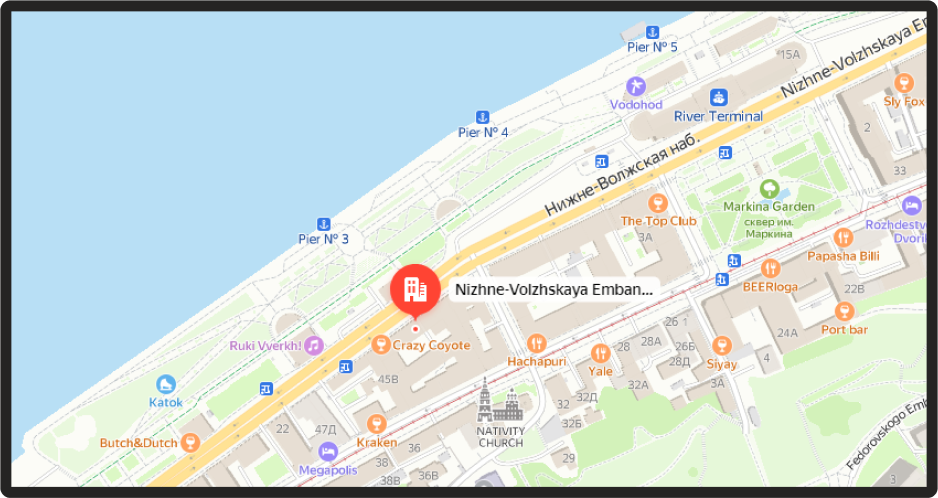
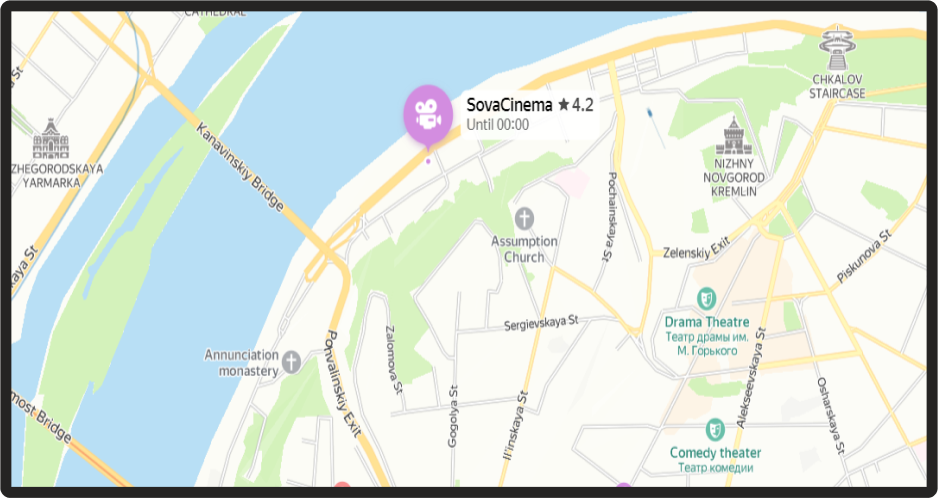
bug fixes and improve interface

diff --git a/src/style/sectionsStyle/section8.scss b/src/style/sectionsStyle/section8.scss
@@ -26,7 +26,18 @@ $white: rgba(255,255,255,0.15);
         
         h1{
             text-align: center;
-            margin: 2rem auto 3rem;
+            margin: 2rem auto 2rem;
+            max-width: fit-content;
+            text-transform: capitalize;
+            transition: all 500ms ease;
+            font-weight: 900;
+            color: #fff;
+            opacity: 0.7;
+            text-shadow: 2px 2px 4px rgba(0,0,0,0.2);
+        }
+        h3{
+            text-align: center;
+            margin: 0rem auto 3rem;
             max-width: fit-content;
             text-transform: capitalize;
             transition: all 500ms ease;
@@ -151,6 +162,72 @@ $white: rgba(255,255,255,0.15);
              max-width: 80%;
             }
 
+            .button{
+              padding: 0.8rem 1.8rem;
+              border-radius: 10px;
+              font-weight: bold;
+              cursor: pointer;
+              box-sizing: border-box;
+              background-color: black;
+              color: white;
+              margin: 30px auto;
+              display: block;
+              text-align: center;
+              border: none;
+              text-decoration: none;
+              text-transform: uppercase;
+              width: 12rem;
+              transition: all 0.3s;
+              box-shadow: 0 0 4px rgba(0, 0, 0, 0.5);
+              &:hover{
+                background-color: white;
+                    color: black ; 
+                    border: 0.1px solid white;
+                    transition: 0.5s linear ;
+              }
+     
+          }
+              .btn{
+                transform-style: preserve-3d;
+                padding: 0.8rem 1.8rem;
+
+                &:before{
+                  content: "отправил";
+                  position: absolute;
+                  left: 0;
+                  right: 0;
+                  transform-origin: 0% 100%;
+                  transform: rotateX(90deg);
+                  color: white;
+                  background-color: black ;                   
+                  transition: all 10s;
+                  top: -100%;
+                  box-shadow: 0 0 4px rgba(0, 0, 0, 0.5);
+                  padding: 0.8rem 1.8rem;
+                  border-radius: 10px;
+                  font-weight: bold;
+                  cursor: pointer;
+                  box-sizing: border-box;
+                  border: 0.1px white solid transparent;
+
+                }
+                
+                &:focus{
+                  padding: 0.8rem 1.8rem;
+                  border: none;
+                  border-radius: 10px;
+                  font-weight: bold;
+                  cursor: pointer;
+                  border: 0.1px solid transparent;
+                  box-sizing: border-box;
+                  transform-origin: 50% 100%;
+                  transform: rotateX(-90deg) translateY(100%);
+                  color: #000;
+                  border: 0.1px white solid transparent;
+
+                }
+                  
+              }  
             button{
                 padding: 0.8rem 1.8rem;
                 border: none;

diff --git a/src/components/sections/section8.jsx b/src/components/sections/section8.jsx
@@ -21,7 +21,7 @@ const navigate = useNavigate();
 
   const handleSubmit = (e) => {
     e.preventDefault();
-
+    
     const templateParams = {
       name,
       phone,
@@ -39,6 +39,10 @@ const navigate = useNavigate();
       }, (err) => {
         console.log('FAILED...', err);
       });
+
+      setTimeout(() => {
+        navigate("/");
+      }, 1000);
   };
 
   const handleChoiceChange = (e, selectedValue) => {
@@ -57,6 +61,7 @@ const navigate = useNavigate();
     <div className="section8">
       <form onSubmit={handleSubmit}>
         <h1>забронируйте фильм в SovaCinema</h1>
+        <h3>действует предварительная запись минимум за сутки</h3>
 
         <div className="userData">
           <input
@@ -112,7 +117,7 @@ const navigate = useNavigate();
             name="message"
             onChange={(e) => setMessage(e.target.value)}
           />
-          <label htmlFor="message" className="form__label">Сообщение</label>
+          <label htmlFor="message" className="form__label">Комментарий</label>
         </div>
 
         <hr />
@@ -140,7 +145,7 @@ const navigate = useNavigate();
               <p className="choiceDetails">{choiceDetails}</p>
             </div>
           )}
-          <button type="submit">Жду звонка!</button>
+          <button  className="send button btn" type="submit">Забронировать</button>
         </div>
       </form>
     </div>

diff --git a/src/components/sections/section6.jsx b/src/components/sections/section6.jsx
@@ -38,8 +38,8 @@ const ContactUs = () => {
           <p>Мы всегда готовы ответить на любые интересующие Вас вопросы, быстро и полно. Связаться с нами можно любым удобным способом:</p>
           <input type="text" name="name" placeholder="ВАШЕ ИМЯ" required />
           <input id="phone" type="tel" name="user_phone" placeholder="ВАШ ТЕЛЕФОН" required />
-          <textarea id="message" type="text" name="message" placeholder="СООБЩЕНИЕ" required></textarea>
-          <button type='submit' value={"send"}>ОТПРАВИТЬ СООБЩЕНИЕ</button>
+          <textarea id="message" type="text" name="message" placeholder="КОММЕНТАРИЙ" required></textarea>
+          <button type='submit' value={"send"}>ОТПРАВИТЬ </button>
         </div>
       </form>
       <img src={Img} alt="contact SovaCinema" />

diff --git a/src/components/sections/section7.jsx b/src/components/sections/section7.jsx
@@ -12,7 +12,7 @@ import map from '../../style/imgs/map.png'
 function Section7() {
   return (
 <section className='section7'>
-   <a href="https://yandex.ru/maps/47/nizhny-novgorod/house/nizhne_volzhskaya_naberezhnaya_19/YEoYfw9jQUMGQFtsfX9zdnVgZA==/?ll=43.983861%2C56.327930&z=16.59"> <img href="" src={map} alt="sova location" /></a>
+   <a href="https://yandex.ru/maps/-/CDRONWju"> <img href="" src={map} alt="sova location" /></a>
       <h3>МЫ НА СВЯЗИ!</h3>
       <p>
       Россия,Нижний <br/> НовгородНижневолжская наб., дом 19

diff --git a/src/components/nav.jsx b/src/components/nav.jsx
@@ -22,9 +22,7 @@ function Nav() {
       <div className="logo">
        <a href="/"> <img src={logo} alt="sova logo" /></a>
       </div>
-      <a className="location">
-        <MdLocationPin /> Нижний Новгород
-      </a>
+     
       <button className="hamburger-menu" onClick={handleNavClick}>
         {navIsVisible ? <SlClose /> : <RiMenu3Fill />}
       </button>
